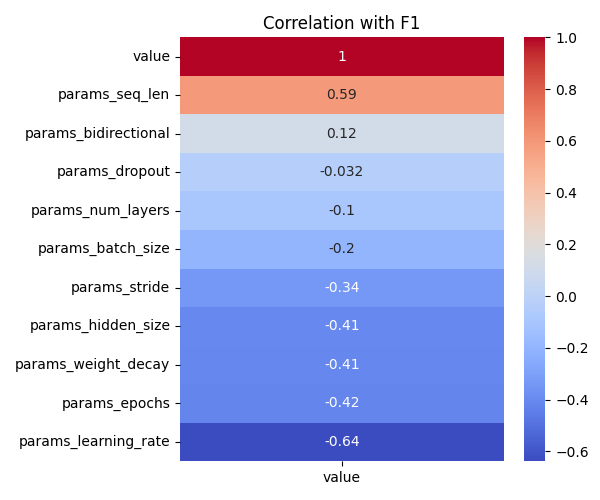
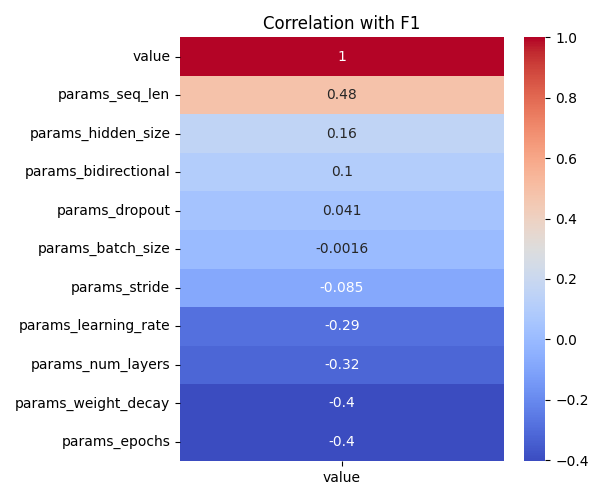
same f1, in less trials

diff --git a/sleep_wave/reports/study_7242_2025-06-09/optuna_summary_2025-06-09.md b/sleep_wave/reports/study_7242_2025-06-09/optuna_summary_2025-06-09.md
@@ -7,31 +7,31 @@
 ---
 
 ## Best Trial
-- **F1 Score**: 0.5931
-- **Threshold**: 0.5
-- **Accuracy**: 0.5921
+- **F1 Score**: 0.7931
+- **Threshold**: 0.57
+- **Accuracy**: 0.7936
 - **Params**
-  - `hidden_size`: 128
-  - `num_layers`: 3
-  - `dropout`: 0.32605054158312186
+  - `hidden_size`: 64
+  - `num_layers`: 2
+  - `dropout`: 0.36965344602653816
   - `bidirectional`: True
-  - `learning_rate`: 0.0007451376549375596
-  - `stride`: 1
-  - `seq_len`: 64
-  - `epochs`: 9
+  - `learning_rate`: 0.0007133471581159139
+  - `stride`: 2
+  - `seq_len`: 128
+  - `epochs`: 8
   - `batch_size`: 64
-  - `weight_decay`: 0.0022291764931384015
+  - `weight_decay`: 0.003062273519768889
 
 ---
 
 ## Top 5 Trials
 | Trial | F1 Score | Threshold | Accuracy |
 |-------|----------|-----------|----------|
-| 8 | 0.5931 | 0.5 | 0.5921 |
-| 9 | 0.5698 | 0.5 | 0.5575 |
-| 1 | 0.5196 | 0.5 | 0.5176 |
-| 3 | 0.4382 | 0.5 | 0.4473 |
-| 4 | 0.4369 | 0.5 | 0.4339 |
+| 1 | 0.7931 | 0.57 | 0.7936 |
+| 6 | 0.7871 | 0.58 | 0.7745 |
+| 8 | 0.7840 | 0.64 | 0.7831 |
+| 7 | 0.7373 | 0.6 | 0.7154 |
+| 4 | 0.7363 | 0.6 | 0.7201 |
 
 ---
 
